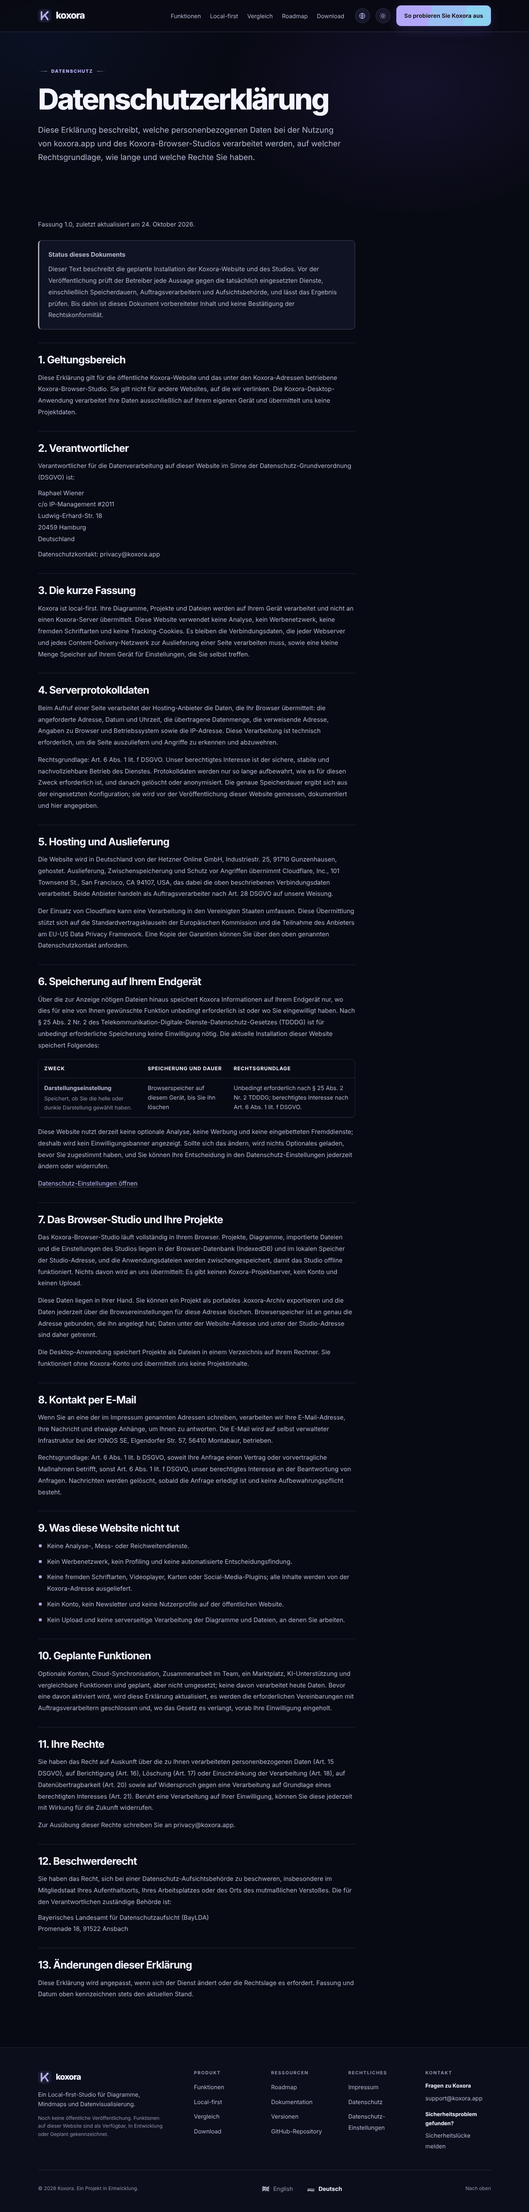
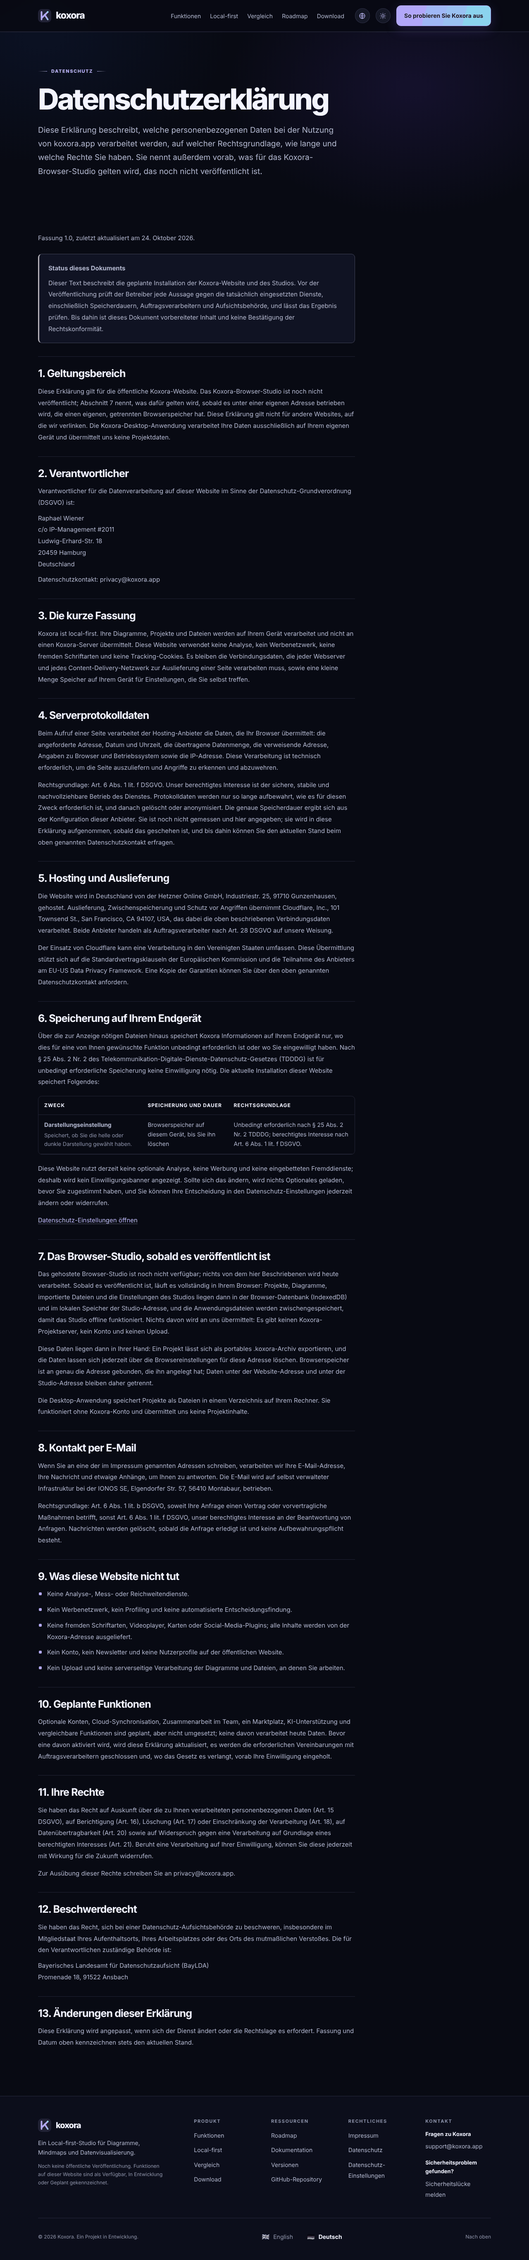
feat(website): keep the review notices out of a published build
The privacy policy carries a notice addressed to the operator: the text
has not been checked against the deployed services. That is true while
this site is unpublished and belongs in a review build, but on a public
page it reads as a disclaimer about a document a reader is being asked
to rely on. A build with KOXORA_SITE_PUBLISHED=true no longer renders
it, and removes nothing else: the version, the review date, every
processing description, the rights, the supervisory authority and every
statement about what is not available yet all stay.

Two guards keep that honest. A unit test renders both privacy pages in
both languages and both states and asserts the notice is present while
unpublished, absent once published, and that the version, the date and
the required sections survive. After the pages are written, the emitter
searches the whole published output for that family of wording and fails
the build if any of it survived, so a new page or sentence cannot
reintroduce it unnoticed.

The same pass corrected two statements a published page cannot make.
The policy no longer reads as if the hosted studio were operated: it
covers the website, and section 7 says what will apply to the studio
once it is published at its own address. And the retention period no
longer promises to be measured "before this site is published", which
contradicts itself on a published page; it now says the period follows
from the providers' configuration, has not been measured yet, is added
[…]

diff --git a/apps/website/src/content/messages/de.ts b/apps/website/src/content/messages/de.ts
@@ -478,11 +478,11 @@ export const de: Record<WebsiteMessageKey, string> = {
   'privacyPolicy.hero.eyebrow': 'Datenschutz',
   'privacyPolicy.hero.title': 'Datenschutzerklärung',
   'privacyPolicy.hero.lead':
-    'Diese Erklärung beschreibt, welche personenbezogenen Daten bei der Nutzung von koxora.app und des Koxora-Browser-Studios verarbeitet werden, auf welcher Rechtsgrundlage, wie lange und welche Rechte Sie haben.',
+    'Diese Erklärung beschreibt, welche personenbezogenen Daten bei der Nutzung von koxora.app verarbeitet werden, auf welcher Rechtsgrundlage, wie lange und welche Rechte Sie haben. Sie nennt außerdem vorab, was für das Koxora-Browser-Studio gelten wird, das noch nicht veröffentlicht ist.',
   'privacyPolicy.version': 'Fassung {version}, zuletzt aktualisiert am {date}.',
   'privacyPolicy.scope.title': '1. Geltungsbereich',
   'privacyPolicy.scope.body':
-    'Diese Erklärung gilt für die öffentliche Koxora-Website und das unter den Koxora-Adressen betriebene Koxora-Browser-Studio. Sie gilt nicht für andere Websites, auf die wir verlinken. Die Koxora-Desktop-Anwendung verarbeitet Ihre Daten ausschließlich auf Ihrem eigenen Gerät und übermittelt uns keine Projektdaten.',
+    'Diese Erklärung gilt für die öffentliche Koxora-Website. Das Koxora-Browser-Studio ist noch nicht veröffentlicht; Abschnitt 7 nennt, was dafür gelten wird, sobald es unter einer eigenen Adresse betrieben wird, die einen eigenen, getrennten Browserspeicher hat. Diese Erklärung gilt nicht für andere Websites, auf die wir verlinken. Die Koxora-Desktop-Anwendung verarbeitet Ihre Daten ausschließlich auf Ihrem eigenen Gerät und übermittelt uns keine Projektdaten.',
   'privacyPolicy.controller.title': '2. Verantwortlicher',
   'privacyPolicy.controller.body':
     'Verantwortlicher für die Datenverarbeitung auf dieser Website im Sinne der Datenschutz-Grundverordnung (DSGVO) ist:',
@@ -494,7 +494,7 @@ export const de: Record<WebsiteMessageKey, string> = {
   'privacyPolicy.logs.body':
     'Beim Aufruf einer Seite verarbeitet der Hosting-Anbieter die Daten, die Ihr Browser übermittelt: die angeforderte Adresse, Datum und Uhrzeit, die übertragene Datenmenge, die verweisende Adresse, Angaben zu Browser und Betriebssystem sowie die IP-Adresse. Diese Verarbeitung ist technisch erforderlich, um die Seite auszuliefern und Angriffe zu erkennen und abzuwehren.',
   'privacyPolicy.logs.basis':
-    'Rechtsgrundlage: Art. 6 Abs. 1 lit. f DSGVO. Unser berechtigtes Interesse ist der sichere, stabile und nachvollziehbare Betrieb des Dienstes. Protokolldaten werden nur so lange aufbewahrt, wie es für diesen Zweck erforderlich ist, und danach gelöscht oder anonymisiert. Die genaue Speicherdauer ergibt sich aus der eingesetzten Konfiguration; sie wird vor der Veröffentlichung dieser Website gemessen, dokumentiert und hier angegeben.',
+    'Rechtsgrundlage: Art. 6 Abs. 1 lit. f DSGVO. Unser berechtigtes Interesse ist der sichere, stabile und nachvollziehbare Betrieb des Dienstes. Protokolldaten werden nur so lange aufbewahrt, wie es für diesen Zweck erforderlich ist, und danach gelöscht oder anonymisiert. Die genaue Speicherdauer ergibt sich aus der Konfiguration dieser Anbieter. Sie ist noch nicht gemessen und hier angegeben; sie wird in diese Erklärung aufgenommen, sobald das geschehen ist, und bis dahin können Sie den aktuellen Stand beim oben genannten Datenschutzkontakt erfragen.',
   'privacyPolicy.hosting.title': '5. Hosting und Auslieferung',
   'privacyPolicy.hosting.body':
     'Die Website wird in Deutschland von der Hetzner Online GmbH, Industriestr. 25, 91710 Gunzenhausen, gehostet. Auslieferung, Zwischenspeicherung und Schutz vor Angriffen übernimmt Cloudflare, Inc., 101 Townsend St., San Francisco, CA 94107, USA, das dabei die oben beschriebenen Verbindungsdaten verarbeitet. Beide Anbieter handeln als Auftragsverarbeiter nach Art. 28 DSGVO auf unsere Weisung.',
@@ -505,11 +505,12 @@ export const de: Record<WebsiteMessageKey, string> = {
     'Über die zur Anzeige nötigen Dateien hinaus speichert Koxora Informationen auf Ihrem Endgerät nur, wo dies für eine von Ihnen gewünschte Funktion unbedingt erforderlich ist oder wo Sie eingewilligt haben. Nach § 25 Abs. 2 Nr. 2 des Telekommunikation-Digitale-Dienste-Datenschutz-Gesetzes (TDDDG) ist für unbedingt erforderliche Speicherung keine Einwilligung nötig. Die aktuelle Installation dieser Website speichert Folgendes:',
   'privacyPolicy.device.note':
     'Diese Website nutzt derzeit keine optionale Analyse, keine Werbung und keine eingebetteten Fremddienste; deshalb wird kein Einwilligungsbanner angezeigt. Sollte sich das ändern, wird nichts Optionales geladen, bevor Sie zugestimmt haben, und Sie können Ihre Entscheidung in den Datenschutz-Einstellungen jederzeit ändern oder widerrufen.',
-  'privacyPolicy.studio.title': '7. Das Browser-Studio und Ihre Projekte',
+  'privacyPolicy.studio.title':
+    '7. Das Browser-Studio, sobald es veröffentlicht ist',
   'privacyPolicy.studio.body':
-    'Das Koxora-Browser-Studio läuft vollständig in Ihrem Browser. Projekte, Diagramme, importierte Dateien und die Einstellungen des Studios liegen in der Browser-Datenbank (IndexedDB) und im lokalen Speicher der Studio-Adresse, und die Anwendungsdateien werden zwischengespeichert, damit das Studio offline funktioniert. Nichts davon wird an uns übermittelt: Es gibt keinen Koxora-Projektserver, kein Konto und keinen Upload.',
+    'Das gehostete Browser-Studio ist noch nicht verfügbar; nichts von dem hier Beschriebenen wird heute verarbeitet. Sobald es veröffentlicht ist, läuft es vollständig in Ihrem Browser: Projekte, Diagramme, importierte Dateien und die Einstellungen des Studios liegen dann in der Browser-Datenbank (IndexedDB) und im lokalen Speicher der Studio-Adresse, und die Anwendungsdateien werden zwischengespeichert, damit das Studio offline funktioniert. Nichts davon wird an uns übermittelt: Es gibt keinen Koxora-Projektserver, kein Konto und keinen Upload.',
   'privacyPolicy.studio.control':
-    'Diese Daten liegen in Ihrer Hand. Sie können ein Projekt als portables .koxora-Archiv exportieren und die Daten jederzeit über die Browsereinstellungen für diese Adresse löschen. Browserspeicher ist an genau die Adresse gebunden, die ihn angelegt hat; Daten unter der Website-Adresse und unter der Studio-Adresse sind daher getrennt.',
+    'Diese Daten liegen dann in Ihrer Hand: Ein Projekt lässt sich als portables .koxora-Archiv exportieren, und die Daten lassen sich jederzeit über die Browsereinstellungen für diese Adresse löschen. Browserspeicher ist an genau die Adresse gebunden, die ihn angelegt hat; Daten unter der Website-Adresse und unter der Studio-Adresse bleiben daher getrennt.',
   'privacyPolicy.studio.desktop':
     'Die Desktop-Anwendung speichert Projekte als Dateien in einem Verzeichnis auf Ihrem Rechner. Sie funktioniert ohne Koxora-Konto und übermittelt uns keine Projektinhalte.',
   'privacyPolicy.contactForm.title': '8. Kontakt per E-Mail',

diff --git a/apps/website/src/content/messages/en.ts b/apps/website/src/content/messages/en.ts
@@ -469,11 +469,11 @@ export const en = {
   'privacyPolicy.hero.eyebrow': 'Privacy',
   'privacyPolicy.hero.title': 'Privacy policy',
   'privacyPolicy.hero.lead':
-    'This policy explains which personal data is processed when you use koxora.app and the Koxora browser studio, on what legal basis, for how long and what rights you have.',
+    'This policy explains which personal data is processed when you use koxora.app, on what legal basis, for how long and what rights you have. It also states in advance what will apply to the Koxora browser studio, which is not published yet.',
   'privacyPolicy.version': 'Version {version}, last updated {date}.',
   'privacyPolicy.scope.title': '1. Scope',
   'privacyPolicy.scope.body':
-    'This policy covers the public Koxora website and the Koxora browser studio operated at the Koxora addresses. It does not cover other websites that we link to. The Koxora desktop application processes your data only on your own device and does not transmit project data to us.',
+    'This policy covers the public Koxora website. The Koxora browser studio is not published yet; section 7 states what will apply to it once it is operated at its own address, which will have its own separate browser storage. This policy does not cover other websites that we link to. The Koxora desktop application processes your data only on your own device and does not transmit project data to us.',
   'privacyPolicy.controller.title': '2. Controller',
   'privacyPolicy.controller.body':
     'The controller for data processing on this website within the meaning of the General Data Protection Regulation (GDPR) is:',
@@ -485,7 +485,7 @@ export const en = {
   'privacyPolicy.logs.body':
     'When you request a page, the hosting provider processes the data your browser transmits: the requested address, date and time, the amount of data transferred, the referring address, browser and operating system information and the IP address. This processing is technically necessary to deliver the page and to detect and defend against attacks.',
   'privacyPolicy.logs.basis':
-    'Legal basis: Art. 6(1)(f) GDPR. Our legitimate interest is the secure, stable and traceable operation of the service. Log data is kept only as long as necessary for that purpose and is then deleted or anonymized. The exact retention period follows from the deployed configuration; it is measured, documented and stated here before this site is published.',
+    'Legal basis: Art. 6(1)(f) GDPR. Our legitimate interest is the secure, stable and traceable operation of the service. Log data is kept only as long as necessary for that purpose and is then deleted or anonymized. The exact retention period follows from the configuration of these providers. It has not yet been measured and published here; it is recorded in this policy as soon as it has been, and you can ask the data protection contact above for the current state in the meantime.',
   'privacyPolicy.hosting.title': '5. Hosting and content delivery',
   'privacyPolicy.hosting.body':
     'The website is hosted in Germany by Hetzner Online GmbH, Industriestr. 25, 91710 Gunzenhausen. Delivery, caching and protection against attacks are handled by Cloudflare, Inc., 101 Townsend St., San Francisco, CA 94107, USA, which therefore processes the connection data described above. Both providers act as processors on our instructions under Art. 28 GDPR.',
@@ -496,11 +496,11 @@ export const en = {
     'Beyond the files needed to display a page, Koxora stores information on your device only where it is strictly necessary for a function you asked for, or where you have consented. Under § 25(2) no. 2 of the German Telecommunications Digital Services Data Protection Act (TDDDG), strictly necessary storage does not require consent. The current deployment of this website stores the following:',
   'privacyPolicy.device.note':
     'This website currently uses no optional analytics, advertising or external embedded services, so no consent banner is shown. If that ever changes, nothing optional is loaded before you have agreed, and you can change or withdraw your decision at any time in the privacy settings.',
-  'privacyPolicy.studio.title': '7. The browser studio and your projects',
+  'privacyPolicy.studio.title': '7. The browser studio, once it is published',
   'privacyPolicy.studio.body':
-    'The Koxora browser studio runs entirely in your browser. Projects, diagrams, imported files and the preferences of the studio are stored in the browser database (IndexedDB) and in local storage of the studio address, and the application files are cached so that the studio works offline. None of this content is transmitted to us: there is no Koxora project server, no account and no upload.',
+    'The hosted browser studio is not available yet, so nothing described here is being processed today. Once it is published, it will run entirely in your browser: projects, diagrams, imported files and the preferences of the studio will be stored in the browser database (IndexedDB) and in local storage of the studio address, and the application files will be cached so that the studio works offline. None of that content will be transmitted to us: there is no Koxora project server, no account and no upload.',
   'privacyPolicy.studio.control':
-    'This data is under your control. You can export a project as a portable .koxora archive, and you can delete the data at any time through your browser settings for that address. Browser storage is tied to the exact address that created it, so data stored under the website address and under the studio address are separate.',
+    'That data will be under your control: a project can be exported as a portable .koxora archive, and the data can be deleted at any time through your browser settings for that address. Browser storage is tied to the exact address that created it, so data stored under the website address and under the studio address stay separate.',
   'privacyPolicy.studio.desktop':
     'The desktop application stores projects as files in a directory on your computer. It works without a Koxora account and does not transmit project content to us.',
   'privacyPolicy.contactForm.title': '8. Contact by email',

diff --git a/apps/website/src/pages/privacy-policy.test.ts b/apps/website/src/pages/privacy-policy.test.ts
@@ -1,0 +1,100 @@
+import { afterEach, describe, expect, it, vi } from 'vitest';
+import { locales } from '../routes';
+/**
+ * The privacy policy carries a notice addressed to the operator while this
+ * site is unpublished. A published build must not show it, and must still
+ * show everything a reader is entitled to. The page is rendered here exactly
+ * as the emitter renders it, so this asserts the emitted HTML rather than the
+ * message catalog.
+ */
+async function renderPolicy(published: boolean, locale: string) {
+  vi.resetModules();
+  vi.stubEnv('KOXORA_SITE_PUBLISHED', published ? 'true' : 'false');
+  const [
+    { renderToStaticMarkup },
+    react,
+    { PrivacyPolicyPage },
+    catalogModule,
+  ] = await Promise.all([
+    import('react-dom/server'),
+    import('react'),
+    import('./privacy-policy'),
+    import('../content/catalog'),
+  ]);
+  const { catalog } = catalogModule;
+  const context = {
+    locale: locale as (typeof locales)[number],
+    route: 'privacyPolicy' as const,
+    t: ((key: never, values?: Record<string, string | number>) =>
+      catalog.translate(locale, key, values)) as never,
+  };
+  return renderToStaticMarkup(
+    react.createElement(PrivacyPolicyPage, context as never),
+  );
+}
+afterEach(() => {
+  vi.unstubAllEnvs();
+  vi.resetModules();
+});
+describe('privacy policy in a published build', () => {
+  const reviewWording = [
+    ['Status of this document', 'Status dieses Dokuments'],
+    ['prepared content', 'vorbereiteter Inhalt'],
+    [
+      'Before publication, the operator verifies',
+      'Vor der Veröffentlichung prüft der Betreiber',
+    ],
+  ] as const;
+  it('still shows the notice while the site is unpublished', async () => {
+    for (const locale of locales) {
+      const html = await renderPolicy(false, locale);
+      const index = locale === 'en' ? 0 : 1;
+      for (const pair of reviewWording)
+        expect(html, `${locale} ${pair[index]}`).toContain(pair[index]);
+    }
+  });
+  it('shows none of it once the site is published', async () => {
+    for (const locale of locales) {
+      const html = await renderPolicy(true, locale);
+      for (const pair of reviewWording)
+        for (const phrase of pair)
+          expect(html, `${locale} ${phrase}`).not.toContain(phrase);
+    }
+  });
+  it('keeps the version, the review date and the required sections', async () => {
+    for (const locale of locales) {
+      const html = await renderPolicy(true, locale);
+      const expected =
+        locale === 'en'
+          ? [
+              'Version 1.0',
+              'October 24, 2026',
+              '1. Scope',
+              '2. Controller',
+              'Your rights',
+              'supervisory authority',
+            ]
+          : [
+              'Fassung 1.0',
+              '24. Oktober 2026',
+              '1. Geltungsbereich',
+              '2. Verantwortlicher',
+              'Ihre Rechte',
+              'Aufsichtsbehörde',
+            ];
+      for (const fragment of expected)
+        expect(html, `${locale} ${fragment}`).toContain(fragment);
+    }
+  });
+  it('does not claim the unpublished studio is already operated', async () => {
+    for (const locale of locales) {
+      const html = await renderPolicy(true, locale);
+      const expected =
+        locale === 'en'
+          ? ['is not published yet', 'is not available yet']
+          : ['noch nicht veröffentlicht', 'noch nicht verfügbar'];
+      for (const fragment of expected)
+        expect(html, `${locale} ${fragment}`).toContain(fragment);
+    }
+  });
+});

diff --git a/apps/website/src/pages/privacy-policy.tsx b/apps/website/src/pages/privacy-policy.tsx
@@ -8,6 +8,7 @@ import { noTrackingKeys } from '../content/data';
 import { formatDate } from '../content/catalog';
 import { pathFor } from '../routes';
 import { site } from '../site';
+import { showsInternalReviewNotes } from '../content/launch';
 export function PrivacyPolicyPage({ locale, t }: PageContext) {
   const updated = formatDate(locale, site.contentDate);
   const stored = deviceStorageItems();
@@ -26,9 +27,15 @@ export function PrivacyPolicyPage({ locale, t }: PageContext) {
               date: updated,
             })}
           </p>
-          <Note tone="warning" title={t('privacyPolicy.draft.title')}>
-            <p>{t('privacyPolicy.draft.body')}</p>
-          </Note>
+          {/* Addressed to the operator while the site is unpublished: it says
+              the text has not been checked against the deployed services. A
+              published build carries the version and the review date instead,
+              and the page emitter refuses to publish this wording. */}
+          {showsInternalReviewNotes() ? (
+            <Note tone="warning" title={t('privacyPolicy.draft.title')}>
+              <p>{t('privacyPolicy.draft.body')}</p>
+            </Note>
+          ) : null}
           <section>
             <h2>{t('privacyPolicy.scope.title')}</h2>
             <p>{t('privacyPolicy.scope.body')}</p>

diff --git a/apps/website/src/content/launch.ts b/apps/website/src/content/launch.ts
@@ -34,3 +34,26 @@ export const preLaunchPhrases = [
   'Website W1 in Arbeit',
   'noch nicht veröffentlicht',
 ];
+/**
+ * Notices written for the review of this branch. They explain that the legal
+ * text has not yet been checked against the deployed services, which is true
+ * while the site is unpublished and is addressed to the operator, not to a
+ * visitor. A published build must not render them, and the page emitter fails
+ * if one of these phrases survives into published output.
+ */
+export const internalReviewPhrases = [
+  'Status of this document',
+  'Status dieses Dokuments',
+  'prepared content',
+  'vorbereiteter Inhalt',
+  'Before publication, the operator verifies',
+  'Vor der Veröffentlichung prüft der Betreiber',
+  'before this site is published',
+  'vor der Veröffentlichung dieser Website',
+];
+/** Whether this build still carries the notices written for the review. */
+export function showsInternalReviewNotes(
+  published: boolean = site.published,
+): boolean {
+  return !published;
+}

diff --git a/apps/website/src/entry-server.tsx b/apps/website/src/entry-server.tsx
@@ -225,4 +225,5 @@ export {
   themeScript,
 };
 export { consentPolicyExtras } from './content/consent';
+export { internalReviewPhrases } from './content/launch';
 export type { Locale, RouteId };

diff --git a/docs/platform/website-w1.md b/docs/platform/website-w1.md
@@ -111,8 +111,8 @@ Results:
 
 | Command | Result |
 | --- | --- |
-| `pnpm check` | Passed. Type check, lint, format, 227 unit tests in 17 files, documentation validation, dependency licence report |
-| Unit tests of the website | 44 of those 227, covering the route table, catalog completeness, the consent record, the search metadata, the launch copy and the shared control metrics |
+| `pnpm check` | Passed. Type check, lint, format, 231 unit tests in 18 files, documentation validation, dependency licence report |
+| Unit tests of the website | 48 of those 231, covering the route table, catalog completeness, the consent record, the search metadata, the launch copy, the shared control metrics and the rendered privacy policy in both publication states |
 | `pnpm website:build` | Passed. 61 files and 30 redirects emitted, plus the hosting configuration |
 | `pnpm test:website` | 245 passed, 7 skipped, across the desktop, tablet and phone projects |
 | `pnpm test:e2e --project chromium --project mobile` | 90 passed; the studio build output is byte-identical with and without this branch |
@@ -123,7 +123,7 @@ Limitations of this run: only the bundled Chromium engine was available in the c
 
 ## 10. Screenshots
 
-Captured with `pnpm capture:website` against the preview server and the consent demonstration server, and stored in `docs/design/screenshots/website/`. Desktop shots use a 1280 pixel wide viewport. Every capture states the operating system appearance it emulates, because the site follows that preference while no choice is stored. `python3 scripts/optimize_screenshots.py` then rewrites the images with an indexed palette, which is why they are about a third of the captured size; the step is optional and needs Pillow.
+Captured with `pnpm capture:website` against the preview server, the consent demonstration server and the published-variant server (`pnpm --filter @koxora/website build:published` and `preview:published`; those two shots are skipped when it is not running), and stored in `docs/design/screenshots/website/`. Desktop shots use a 1280 pixel wide viewport. Every capture states the operating system appearance it emulates, because the site follows that preference while no choice is stored. `python3 scripts/optimize_screenshots.py` then rewrites the images with an indexed palette, which is why they are about a third of the captured size; the step is optional and needs Pillow.
 
 | View | File |
 | --- | --- |
@@ -136,6 +136,7 @@ Captured with `pnpm capture:website` against the preview server and the consent 
 | Stuck header where the studio screenshot begins | `sticky-header-en.png` |
 | Footer, English dark and German light | `footer-en-desktop.png`, `footer-de-desktop.png` |
 | Footer, German and English, phone | `footer-de-mobile.png`, `footer-en-mobile.png` |
+| Privacy policy as a launched build renders it | `privacy-published-en.png`, `privacy-published-de.png` |
 | Home, German, phone | `home-de-mobile.png` |
 | Home, English, tablet | `home-en-tablet.png` |
 | Navigation menu, German, phone | `menu-de-mobile.png` |
@@ -202,7 +203,17 @@ A marketing website that is still being reviewed says so; once it is live, that 
 | Indexing is intended | `KOXORA_SITE_INDEXABLE`, which stays `false` for staging |
 | The security contact is deliverable and owned | The legal review checklist |
 
-## 14. Header that follows the page, and a footer sorted by errand
+## 14. What a published build changes on the legal pages
+
+While this site is unpublished, the privacy policy carries a notice addressed to the operator: the text has not been checked against the deployed services. That is true today and belongs in a review build, but on a public page it reads as a disclaimer about a document a reader is being asked to rely on. `KOXORA_SITE_PUBLISHED=true` therefore removes it, and removes nothing else: the version, the review date, every processing description, the rights, the supervisory authority and every statement about what is not available yet all stay.
+
+Two guards keep that honest. A unit test renders both privacy pages, in both languages and in both states, and asserts the notice is there while unpublished, absent once published, and that the version, the review date and the required sections survive. After the pages are written, the emitter searches the whole published output for that family of wording and refuses to finish the build if any of it survived, so a new page or a new sentence cannot reintroduce it unnoticed.
+
+The same pass corrected two statements that a published page cannot make. The policy no longer reads as if the hosted studio were already operated: it covers the website, and section 7 says what will apply to the studio once it is published at its own address. And the retention period no longer promises to be measured "before this site is published", which would contradict itself on a published page; it says instead that the period follows from the providers' configuration, has not been measured yet, is added once it has been, and that the data protection contact answers in the meantime.
+
+`KOXORA_SITE_INDEXABLE` stays a separate switch. A review deployment sets it to `false` and gets `noindex`, no canonical address and a disallow-all robots file, whatever the launch flag says.
+
+## 15. Header that follows the page, and a footer sorted by errand
 
 Every studio picture is a framed, named screenshot. The frame carries a strip at its top edge reading "Screenshot · Koxora Studio", because the stuck site header comes to rest exactly there while a reader scrolls, and the picture's own chrome begins immediately below it. Without the strip the two headers read as one application, with two Koxora word marks above each other. The pictures themselves are unaltered captures of the running studio, including its own toolbar and side panels, taken by `pnpm capture:studio`; nothing is drawn by hand and nothing is a web page wrapped around the studio.
 
@@ -210,7 +221,7 @@ The header is `position: sticky` at the top. Nothing inside it is clipped, becau
 
 The footer keeps the layout it had. Product, Resources and Legal stay as they were, with their column widths, the brand block and the bottom bar untouched; the repository link moved out of the contact column into Resources, where it belongs, and appears nowhere else. The contact column is a concise support point plus one named security action: a question about Koxora goes to the support mailbox, a security problem goes to the security policy, which says what is safe to send before a private channel exists. The security address itself is not printed there, so nothing in the footer suggests that the mailbox has been verified.
 
-## 15. Appearance and language controls
+## 16. Appearance and language controls
 
 The header carries two controls that Koxora shares across its surfaces: one round button for the appearance and one for the language. [The control specification](../design/shared-header-controls.md) is the contract, and `packages/ui/src/control-icons.ts` is the artwork and the metrics both surfaces draw from, as plain data rather than as a React component, because this website ships no client React runtime.
 
@@ -220,13 +231,13 @@ The language button is a globe that opens a popover: a heading, the native name 
 
 Studio 2.5 owns its side of this contract on its own branch. Until that lands the two surfaces differ, which is why nothing here claims they already match.
 
-## 16. Security contact
+## 17. Security contact
 
 `security@koxora.app` is the address for a first contact about a vulnerability. It appears in the legal notice next to the other contacts, in `SECURITY.md`, and in `/.well-known/security.txt` in the format of RFC 9116. That file states the contact, the languages, the policy address and an expiry one year after the content review date, and deliberately claims no response time, no encryption key and no reward. The hidden-path guard of the hosting configuration exempts the well-known directory and nothing else.
 
 The Product Owner has provisioned the mailbox, but its delivery and the access to it are untested, so the policy does not ask anyone to send exploit details to it. A first message says only that a problem exists, roughly where, and how to reply; the technical part follows through a channel agreed in that reply. The footer therefore links to the policy under "Report a vulnerability" rather than printing the address next to the support mailbox, where it would read as an invitation to send details straight away. When the operator has verified delivery and access, that restriction can be lifted and the policy updated; until then it stays an open point in the legal review checklist.
 
-## 17. Independent review
+## 18. Independent review
 
 Four independent reviews examined this branch against the real diff and the built output: data protection and consent, technical search readiness with accessibility, security of the generated site and its tooling, and the shared surface with the parallel studio work. They found one defect that would have mattered to a reader and a set of smaller ones, all of which are fixed in this branch:
 
@@ -247,7 +258,7 @@ Four independent reviews examined this branch against the real diff and the buil
 
 The reviews also confirmed, by measurement rather than by reading, that the studio build output is byte-identical with and without this branch, that no page makes a third-party request, that the structured data claims nothing unreleased, that the hreflang and sitemap layer is internally consistent, and that nothing is stored on a device before a reader acts.
 
-## 18. Open points
+## 19. Open points
 
 1. The hosted browser studio is not published, so the primary call to action explains how to run the current version instead of linking to an address that does not answer. The Product Owner decided on 2026-10-24 to keep this configurable and to switch on the direct studio link only once `app.koxora.app` is actually reachable; setting `KOXORA_SITE_EDITOR_URL` is the single change needed.
 2. The legal pages carry prepared content; [the checklist](../legal/website-legal-review.md) lists what the operator must confirm before publication.

diff --git a/docs/development/website-deployment.md b/docs/development/website-deployment.md
@@ -134,17 +134,22 @@ The last row matters most: a website release must never be able to affect the st
 
 ## 7. Going live
 
-Publication is a separate, explicitly approved step. Three things change on the day it happens, and all three are build inputs rather than edits to the content:
+Publication is a separate, explicitly approved step. What changes on the day it happens are build inputs, not edits to the content:
 
 ```sh
 KOXORA_SITE_PUBLISHED=true \
+  KOXORA_SITE_ORIGIN=https://koxora.app \
+  KOXORA_SITE_INDEXABLE=true \
   KOXORA_SITE_CONTENT_DATE=<the day of the review> \
   pnpm website:build
 ```
 
-1. `KOXORA_SITE_PUBLISHED=true` removes the sentences that describe this website as still in review. The flag changes website copy only. Whether the studio is linked is decided by `KOXORA_SITE_EDITOR_URL`, and whether a download exists by the release process; neither follows from this flag. A unit test asserts, in both languages, that the launch-sensitive messages contain no pre-launch phrase once the flag is set, and that the sentences about the missing studio release and the missing download survive it.
+`KOXORA_SITE_EDITOR_URL` stays unset until the studio is actually reachable, so the call to action keeps explaining how to run the current version instead of linking to an address that does not answer.
+
+1. `KOXORA_SITE_PUBLISHED=true` removes the sentences that describe this website as still in review, and removes the notice on the privacy policy that is addressed to the operator rather than to a reader. It removes nothing a reader is entitled to: the version, the review date, the processing descriptions, the rights and the supervisory authority stay, and so does every statement about what is not available yet. After the pages are written, the emitter searches the published output for that wording and refuses to finish the build if any of it survived, so this cannot be forgotten in a new page or a new sentence. The flag changes website copy only. Whether the studio is linked is decided by `KOXORA_SITE_EDITOR_URL`, and whether a download exists by the release process; neither follows from this flag. A unit test asserts, in both languages, that the launch-sensitive messages contain no pre-launch phrase once the flag is set, and that the sentences about the missing studio release and the missing download survive it.
 2. `KOXORA_SITE_CONTENT_DATE` is the date shown on the legal pages and used as the sitemap modification date. It also sets the `Expires` field of `/.well-known/security.txt`, one year later. RFC 9116 requires that date to be in the future, so a release whose content date is more than a year old publishes an expired security contact: set the content date on every release, and treat a stale one as a release blocker.
-3. The open points of the [legal review checklist](../legal/website-legal-review.md) must be closed first, including a security mailbox that actually receives mail, because the legal notice, the footer, `SECURITY.md` and `security.txt` all publish that address.
+3. `KOXORA_SITE_INDEXABLE` is a separate switch and does not follow from the launch flag. A review deployment keeps `KOXORA_SITE_INDEXABLE=false`, which emits `noindex`, no canonical address and a disallow-all robots file; the launch build sets it to `true`. Setting one without the other is possible and is sometimes what you want, so the launch command above sets both explicitly.
+4. The open points of the [legal review checklist](../legal/website-legal-review.md) must be closed first, including a security mailbox that actually receives mail, because the legal notice, the footer, `SECURITY.md` and `security.txt` all publish that address.
 
 `KOXORA_SITE_PUBLISHED`, like every other input, is recorded in `dist-deploy/build-info.json`, so the release record shows which variant was deployed.
 

diff --git a/docs/legal/website-legal-review.md b/docs/legal/website-legal-review.md
@@ -45,7 +45,7 @@ Related: [Issue #26](https://github.com/Koxora-Development/koxora/issues/26), [I
 | ------------------------------------------------------------------- | ------------ | ------------ | ------------------------------------------------------------------------------------------------------------------------------------------------------------------------------------------------------------------------------------------------------------ |
 | Controller identity and data protection contact                     | Implemented  | Operator     | Same operator; `privacy@koxora.app`                                                                                                                                                                                                                          |
 | Processing described per operation with purpose and legal basis     | Implemented  | Legal review | Server logs, hosting and delivery, device storage, email contact                                                                                                                                                                                             |
-| Server log retention period                                         | Open         | Operator     | The text says the period follows from the deployed configuration and is measured, documented and stated before publication, instead of naming an unverified number or an operator document that does not exist yet                                           |
+| Server log retention period                                         | Open         | Operator     | The page states that the period follows from the providers' configuration, that it has not been measured yet, that it is added once it has been, and that the data protection contact answers in the meantime. Measure it and replace that wording           |
 | Hosting provider named and processing agreement in place            | Carried over | Operator     | Hetzner Online GmbH; confirm the agreement covers the Koxora deployment                                                                                                                                                                                      |
 | Content delivery and protection provider named, transfer safeguards | Carried over | Operator     | Cloudflare, Inc.; confirm the agreement, the transfer mechanism and whether it is actually in front of `koxora.app`                                                                                                                                          |
 | Email infrastructure named                                          | Carried over | Operator     | Self-managed infrastructure at IONOS SE                                                                                                                                                                                                                      |
